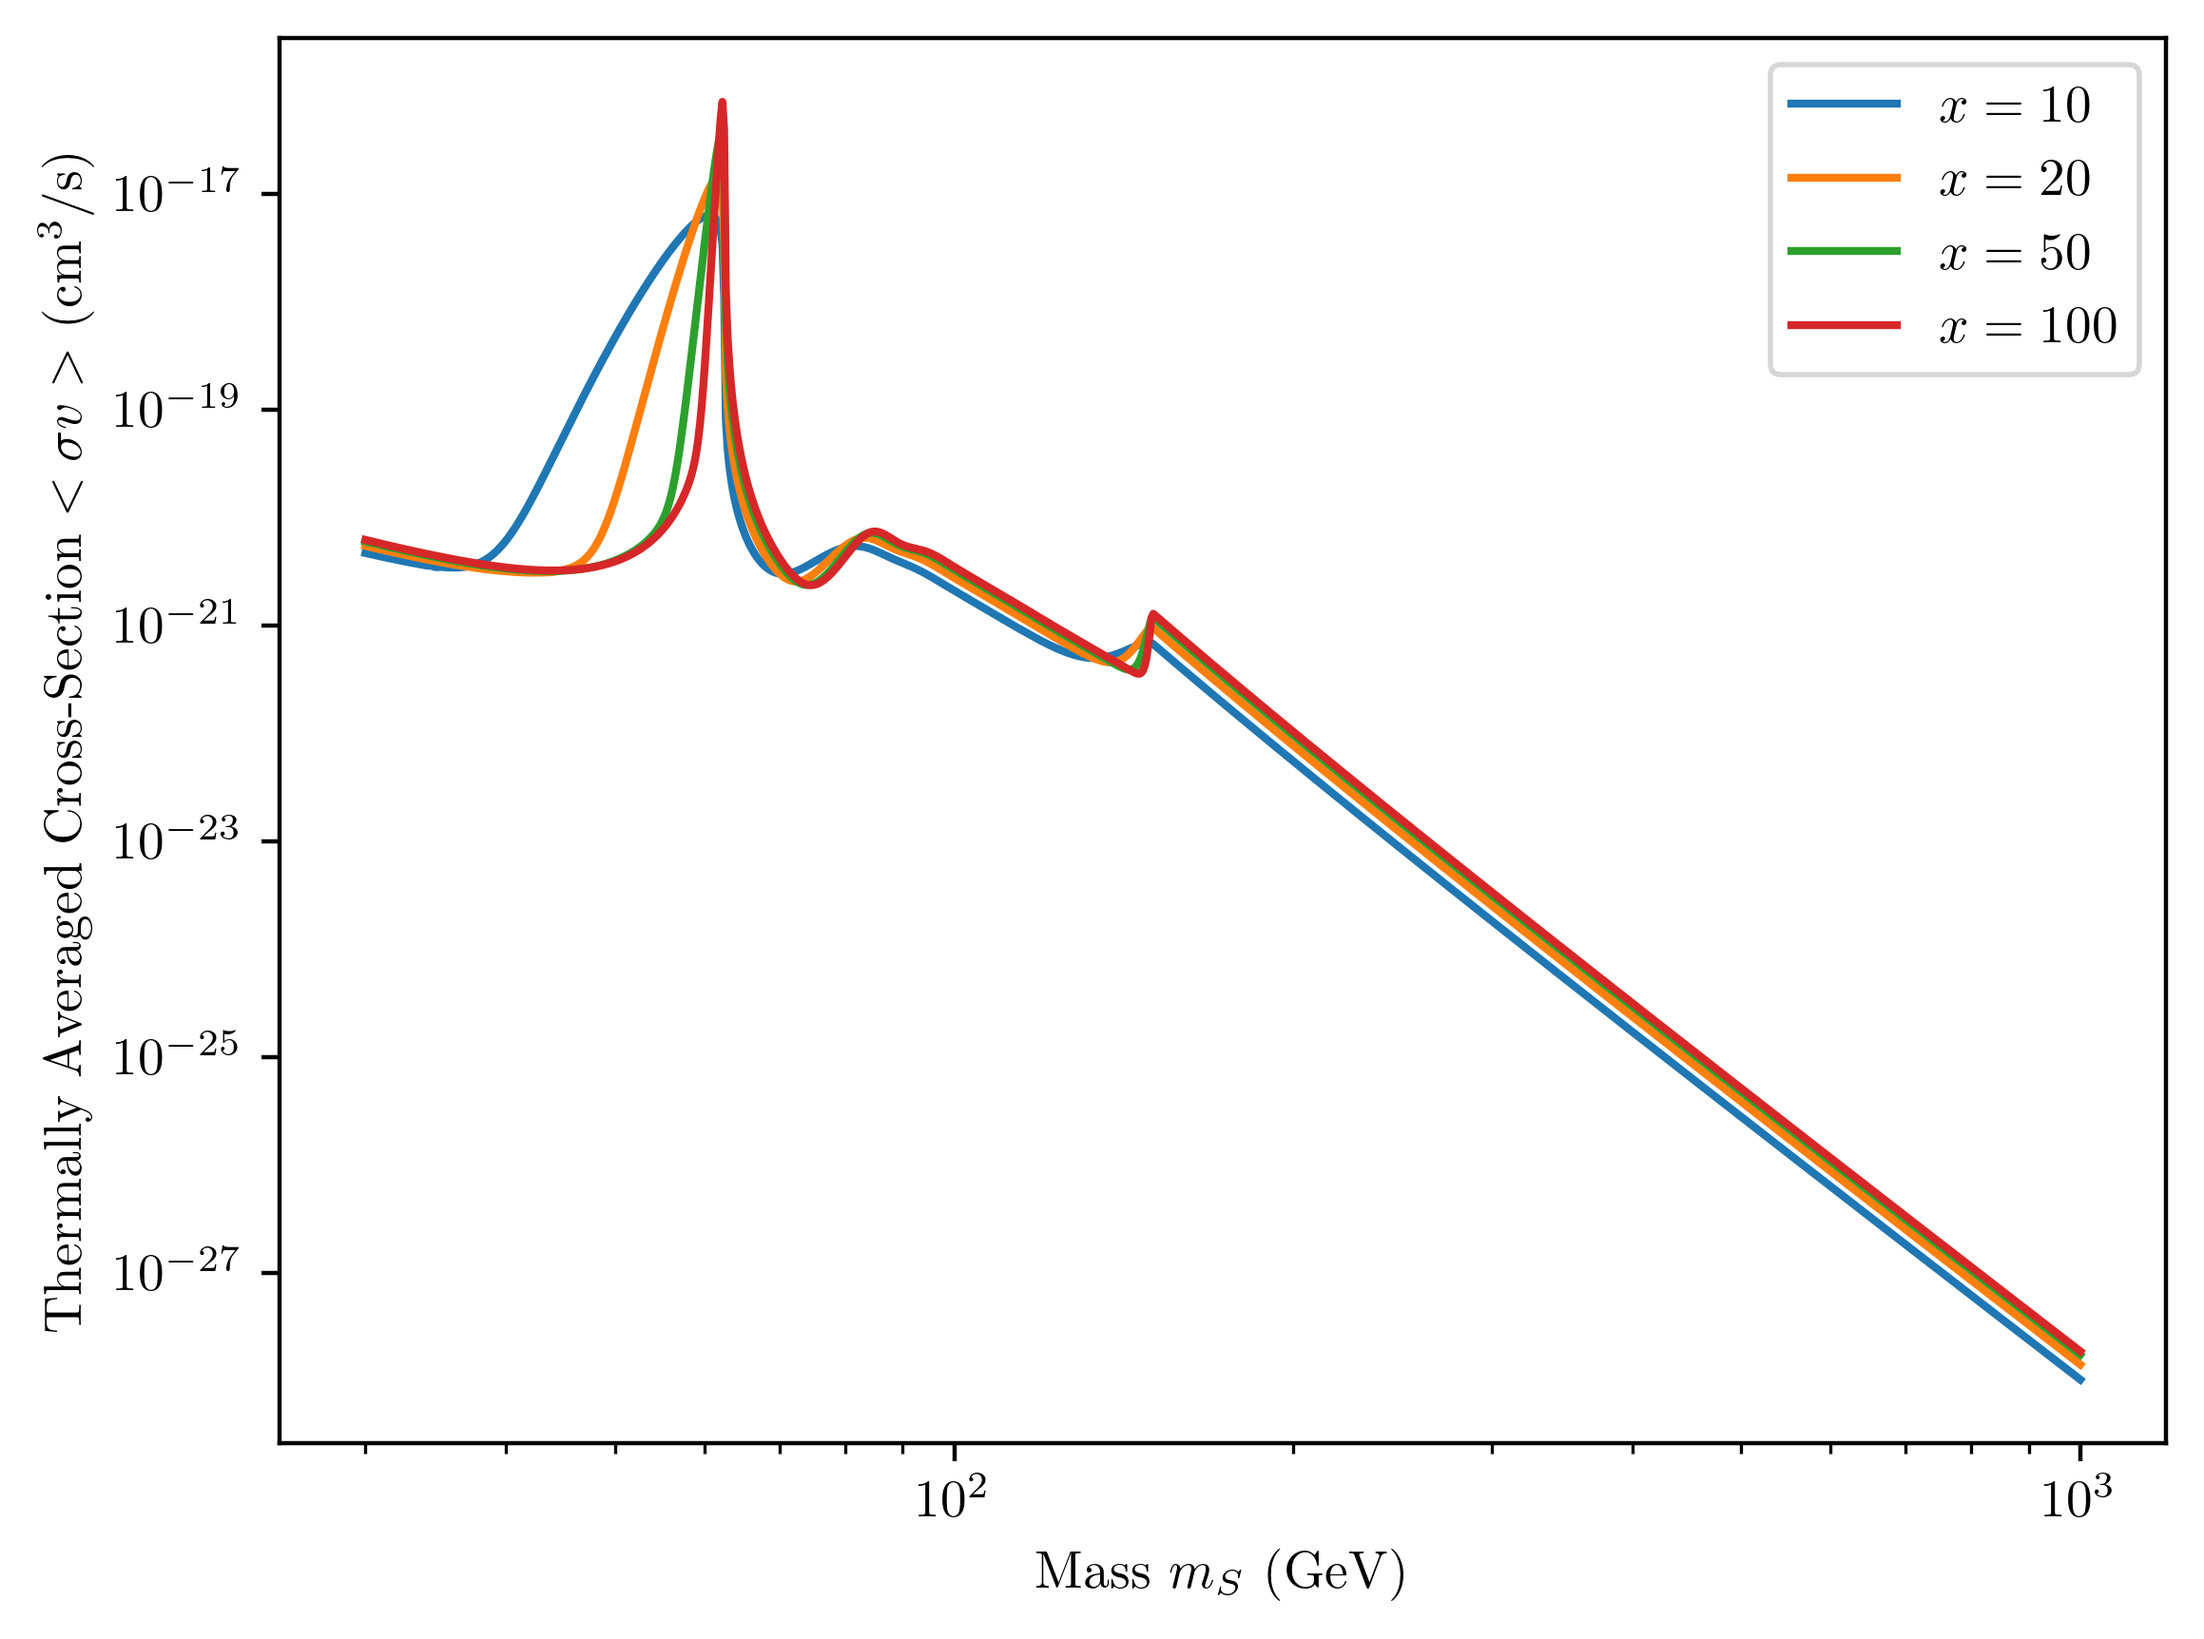
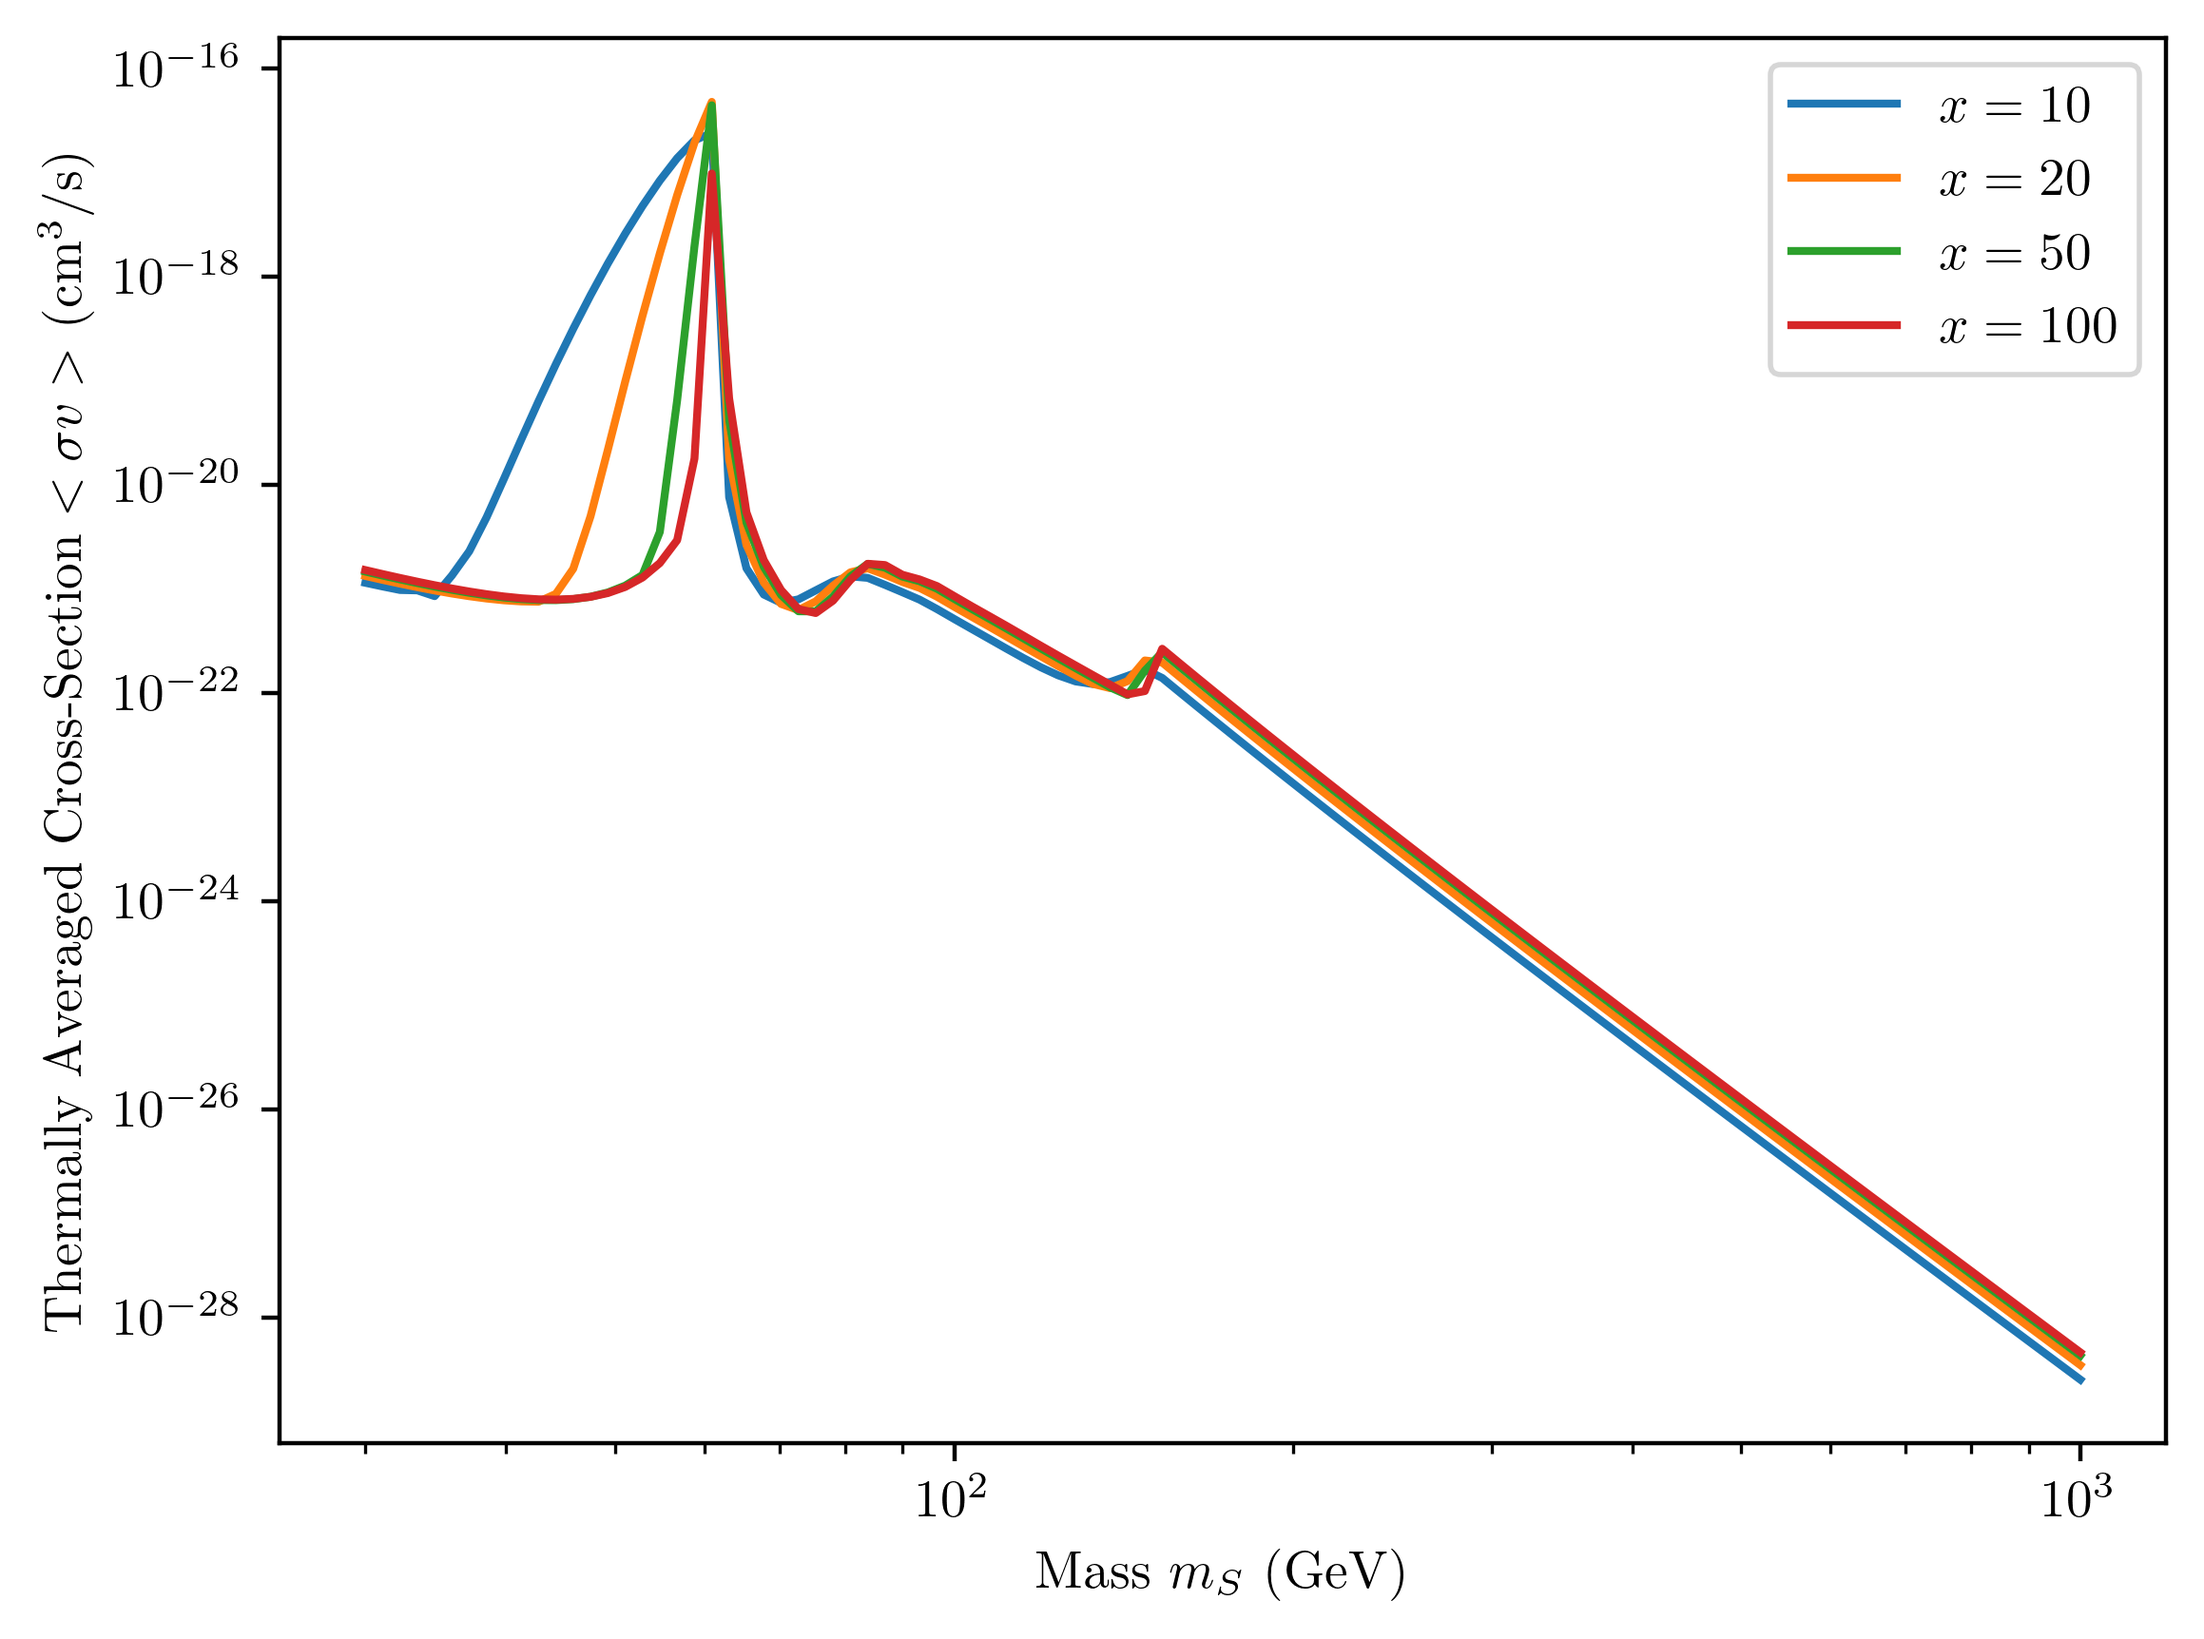
fix some mistakes

diff --git a/Question2.py b/Question2.py
@@ -49,8 +49,8 @@ def integrand_sveff_t(t, x, m, lambda_h):
     '''
     s = 1 / t
     sqrts = np.sqrt(s)
-    Dhs = 1 / ((s - m_h**2)**2 + m_h**2 * gamma_h(m_h))
-    ovcms = 2 * lambda_h * (v0 / sqrts) * Dhs * gamma_h(sqrts)
+    Dhs = 1 / ((s - m_h**2)**2 + m_h**2 * gamma_h(m_h)**2)
+    ovcms = 2 * (lambda_h * v0)**2 / sqrts * Dhs * gamma_h(sqrts)
     sveff =  x * s * np.sqrt(s - 4 * m**2) * sp.kn(1, x * sqrts / m) * ovcms / (16 * m**5 * sp.kn(2, x)**2)
     return sveff
 
@@ -245,7 +245,7 @@ def root_find(xarr, mass):
 # ax.plot(m, [gamma_h(M) for M in m])
 
 xs = [10, 20, 50, 100]
-masses = np.logspace(np.log10(30), 3, 1000)
+masses = np.logspace(np.log10(30), 3, 100)
 sveff = np.zeros((len(xs), len(masses)))
 for i, x in enumerate(xs):
     for j, m in enumerate(masses):
